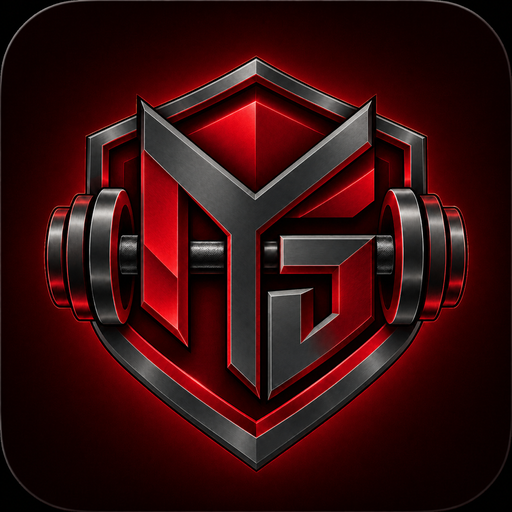
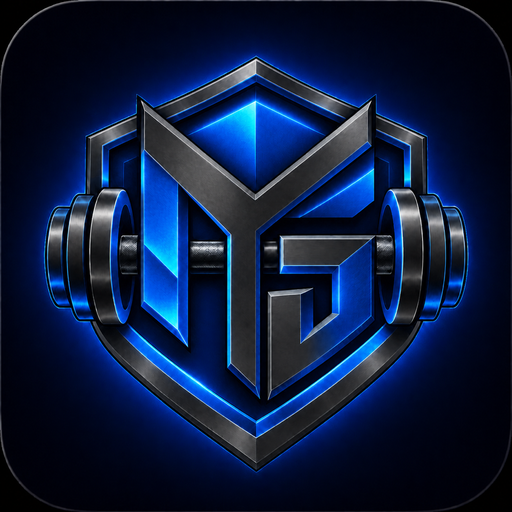
Rework theme identities: Midnight electric-blue flagship + new Crimson theme
- Midnight is now an electric-blue identity: new neon-electric badge, wordmark
  and app icon (assets/brand/*-electric.png, assets/icon.png) and electric-blue
  UI accents (:root recoloured).
- New Crimson theme (dark red) reuses the crimson badge/wordmark.
- Each theme's UI accent now matches its colourway: Daylight blue, Blossom
  violet, Grape gold (was mismatched red/pink before).
- Introduced --on-accent token so accent-button text reads on any hue
  (replaces hardcoded #2a0710). Theme picker shows all five with matching
  swatches; THEME_META/COLORWAY, splash-accent and head-script map updated.

diff --git a/index.html b/index.html
@@ -9,7 +9,7 @@
   try{
     var t=localStorage.getItem("mt_theme")||"midnight";
     if(t && t!=="midnight") document.documentElement.setAttribute("data-theme",t);
-    var mc={midnight:"#000000",blossom:"#FFF1F6",daylight:"#F4F5F8",grape:"#140B1F"}[t];
+    var mc={midnight:"#000000",blossom:"#FFF1F6",daylight:"#F4F5F8",grape:"#140B1F",crimson:"#0E0406"}[t];
     if(mc){ var m=document.querySelector('meta[name=theme-color]'); if(m) m.setAttribute("content",mc); }
   }catch(e){}
 })();
@@ -29,14 +29,15 @@
   :root{
     --bg:#000000;
     --summary-bg:#000000;
-    --splash-accent:#FF3B3B;
-    --surface:#13151D;
-    --surface-2:#1B1E28;
-    --border:#252A38;
-    --text:#EEF0F6;
-    --muted:#7E8598;
-    --faint:#4E5464;
-    --protein:#FF4D6D;   /* the red (app accent) */
+    --splash-accent:#22C8FF;
+    --on-accent:#04101d;   /* text on bright accent buttons */
+    --surface:#0F131C;
+    --surface-2:#171C28;
+    --border:#222A3A;
+    --text:#EAF2FB;
+    --muted:#7E8BA3;
+    --faint:#4A5568;
+    --protein:#0A84FF;   /* app accent - electric blue on Midnight */
     --protein-dial:#A855F7;  /* protein macro dial + dot (purple) */
     --fat-dial:#10B981;      /* fat macro dial + dot (emerald) */
     --carbs:#FFB43D;
@@ -50,8 +51,8 @@
     --gold:#FFC24B;
     --h-morning:#FFB43D;
     --h-wind:#9B7DFF;
-    --grad:linear-gradient(118deg,#FF4D6D 0%,#FF4D6D 100%);
-    --glow:0 0 16px rgba(255,77,109,.4);
+    --grad:linear-gradient(118deg,#22C8FF 0%,#0A84FF 100%);
+    --glow:0 0 16px rgba(10,132,255,.45);
     --ff-ui:'Plus Jakarta Sans',system-ui,-apple-system,sans-serif;
     --head-inset-top:calc(4px + env(safe-area-inset-top));
     --head-bar-h:38px;
@@ -61,27 +62,35 @@
   }
   /* ---------- theme skins (Midnight is the default :root above) ---------- */
   html[data-theme="blossom"]{
-    --bg:#FFF1F6; --summary-bg:#FFF1F6; --splash-accent:#A24BFF; --surface:#FFFFFF; --surface-2:#FDE6F0; --border:#F6D3E1;
-    --text:#3B2A33; --muted:#9C7C89; --faint:#CBA8B7;
-    --protein:#F53D7D; --grad:linear-gradient(118deg,#FF7FB0 0%,#F53D7D 100%); --glow:0 0 16px rgba(245,61,125,.30);
+    --bg:#FFF1F6; --summary-bg:#FFF1F6; --splash-accent:#8B5CF6; --on-accent:#150826; --surface:#FFFFFF; --surface-2:#F3E9FE; --border:#E9D9F7;
+    --text:#31243B; --muted:#8C7C9C; --faint:#BEACD0;
+    --protein:#8B5CF6; --grad:linear-gradient(118deg,#A78BFA 0%,#8B5CF6 100%); --glow:0 0 16px rgba(139,92,246,.30);
     --protein-dial:#A855F7; --fat-dial:#0EA371; --carbs:#EB9612;
-    --supp:#8B6DF0; --water:#1FB6D4; --brand:#7C6CF5; --danger:#E11D5B; --ok:#16A34A; --gold:#E0A93B;
-    --h-morning:#EB9612; --h-wind:#8B6DF0;
+    --supp:#8B5CF6; --water:#1FB6D4; --brand:#8B5CF6; --danger:#E11D5B; --ok:#16A34A; --gold:#E0A93B;
+    --h-morning:#EB9612; --h-wind:#8B5CF6;
   }
   html[data-theme="daylight"]{
-    --bg:#F4F5F8; --summary-bg:#F4F5F8; --splash-accent:#2E7DFF; --surface:#FFFFFF; --surface-2:#EBEEF3; --border:#DCE0EA;
+    --bg:#F4F5F8; --summary-bg:#F4F5F8; --splash-accent:#0A84FF; --on-accent:#04101d; --surface:#FFFFFF; --surface-2:#EBEEF3; --border:#DCE0EA;
     --text:#1B1E28; --muted:#6B7280; --faint:#A6ADBC;
-    --protein:#FF4D6D; --grad:linear-gradient(118deg,#FF4D6D 0%,#FF4D6D 100%); --glow:0 0 16px rgba(255,77,109,.25);
+    --protein:#0A84FF; --grad:linear-gradient(118deg,#3AA0FF 0%,#0A84FF 100%); --glow:0 0 16px rgba(10,132,255,.25);
     --protein-dial:#9333EA; --fat-dial:#0EA371; --carbs:#E8930C;
     --supp:#6366F1; --water:#0DA4C4; --brand:#0A84FF; --danger:#E11D48; --ok:#15A34A; --gold:#D99A2B;
     --h-morning:#E8930C; --h-wind:#7C5CF0;
   }
   html[data-theme="grape"]{
-    --bg:#140B1F; --summary-bg:#1B0F2B; --splash-accent:#FFB43D; --surface:#1F1330; --surface-2:#2A1B41; --border:#3B2858;
+    --bg:#140B1F; --summary-bg:#1B0F2B; --splash-accent:#FFC24B; --on-accent:#241703; --surface:#1F1330; --surface-2:#2A1B41; --border:#3B2858;
     --text:#F1EAF8; --muted:#A78FC2; --faint:#6C5589;
-    --protein:#FF5FA2; --grad:linear-gradient(118deg,#C46BFF 0%,#FF5FA2 100%); --glow:0 0 16px rgba(255,95,162,.40);
+    --protein:#FFC24B; --grad:linear-gradient(118deg,#FFD877 0%,#F5A623 100%); --glow:0 0 16px rgba(245,166,35,.38);
     --protein-dial:#C084FC; --fat-dial:#10B981; --carbs:#FFB43D;
     --supp:#A78BFA; --water:#34D3EE; --brand:#A78BFA; --danger:#FF5470; --ok:#3DE08A; --gold:#FFC24B;
+    --h-morning:#FFB43D; --h-wind:#C084FC;
+  }
+  html[data-theme="crimson"]{
+    --bg:#0E0406; --summary-bg:#0E0406; --splash-accent:#FF3B5C; --on-accent:#2a0710; --surface:#1C0A0E; --surface-2:#28111A; --border:#3E1B25;
+    --text:#FBEAED; --muted:#BE8C96; --faint:#7C4E58;
+    --protein:#FF3B5C; --grad:linear-gradient(118deg,#FF6B7F 0%,#E11D48 100%); --glow:0 0 16px rgba(225,29,72,.42);
+    --protein-dial:#C084FC; --fat-dial:#10B981; --carbs:#FFB43D;
+    --supp:#A78BFA; --water:#34D3EE; --brand:#3B82F6; --danger:#FF5470; --ok:#3DE08A; --gold:#FFC24B;
     --h-morning:#FFB43D; --h-wind:#C084FC;
   }
   *{box-sizing:border-box;margin:0;padding:0;-webkit-tap-highlight-color:transparent}
@@ -346,7 +355,7 @@
   .food .fi .nm{font-size:15px;font-weight:500}
   .food .fi .mm{font-family:var(--ff-num);font-size:11px;color:var(--muted);margin-top:2px;white-space:nowrap}
   .mm .p{color:var(--protein-dial)}.mm .c{color:var(--carbs)}.mm .f{color:var(--fat-dial)}
-  .food .plus{width:29px;height:29px;border-radius:9px;background:var(--grad);color:#2a0710;display:flex;align-items:center;justify-content:center;flex:none;box-shadow:var(--glow);line-height:0}
+  .food .plus{width:29px;height:29px;border-radius:9px;background:var(--grad);color:var(--on-accent);display:flex;align-items:center;justify-content:center;flex:none;box-shadow:var(--glow);line-height:0}
   .food .plus svg{width:13px;height:13px;stroke:currentColor;stroke-width:2;stroke-linecap:round;fill:none;display:block}
   .food .mgbtns{display:flex;gap:6px}
   .food .mg{width:32px;height:32px;border-radius:9px;border:1px solid var(--border);background:var(--surface-2);color:var(--muted);display:grid;place-items:center;cursor:pointer;font-size:14px}
@@ -396,7 +405,7 @@
   .grid4 input{font-family:var(--ff-num);padding:11px 8px;text-align:center}
   input[type=number]{-moz-appearance:textfield;appearance:textfield}
   input[type=number]::-webkit-outer-spin-button,input[type=number]::-webkit-inner-spin-button{-webkit-appearance:none;appearance:none;margin:0}
-  .primary{width:100%;background:var(--grad);color:#2a0710;border:none;border-radius:12px;padding:14px;font-family:var(--ff-ui);font-weight:700;font-size:14px;cursor:pointer;margin-top:4px;letter-spacing:.04em;text-transform:uppercase;box-shadow:var(--glow)}
+  .primary{width:100%;background:var(--grad);color:var(--on-accent);border:none;border-radius:12px;padding:14px;font-family:var(--ff-ui);font-weight:700;font-size:14px;cursor:pointer;margin-top:4px;letter-spacing:.04em;text-transform:uppercase;box-shadow:var(--glow)}
   .primary:active{opacity:.85}
   .ghost{width:100%;background:var(--surface-2);color:var(--text);border:1px solid var(--border);border-radius:12px;padding:12px;font-family:var(--ff-ui);font-weight:600;font-size:13px;cursor:pointer;margin-top:8px;letter-spacing:.03em;transition:color .2s,border-color .2s,background .2s}
   .ghost.saved{color:var(--ok);border-color:color-mix(in srgb,var(--ok) 55%,var(--border));background:color-mix(in srgb,var(--ok) 12%,var(--surface-2))}
@@ -420,7 +429,7 @@
   .nf-unit{flex:0 0 auto;display:flex;background:var(--surface-2);border:1px solid var(--border);border-radius:12px;padding:3px;gap:2px}
   .nf-unit button{border:none;background:transparent;color:var(--muted);font-family:var(--ff-ui);font-size:12px;font-weight:600;
     padding:0 12px;border-radius:9px;cursor:pointer;letter-spacing:.02em}
-  .nf-unit button.on{background:var(--protein);color:#2a0710}
+  .nf-unit button.on{background:var(--protein);color:var(--on-accent)}
   .nf-unit button:disabled{opacity:.4;cursor:not-allowed}
   .nf-amount-hint{font-family:var(--ff-num);font-size:11px;color:var(--muted);margin:6px 2px 0;min-height:14px}
   .nf-manual .field > label,.nf-manual .nf-name-grid > label{display:block;font-size:11px;letter-spacing:.08em;text-transform:uppercase;color:var(--muted);font-weight:600;line-height:1.2}
@@ -470,10 +479,11 @@
   .theme-sw i.a{width:16px;height:5px;left:7px;bottom:13px}
   .theme-sw i.b{width:10px;height:5px;left:7px;bottom:6px}
   .theme-name{font-size:12.5px;font-weight:600}
-  .sw-midnight{background:#000}       .sw-midnight i.a{background:#FF4D6D}  .sw-midnight i.b{background:#0A84FF}
-  .sw-blossom{background:#FFF1F6}      .sw-blossom i.a{background:#F53D7D}   .sw-blossom i.b{background:#7C6CF5}
-  .sw-daylight{background:#F4F5F8}     .sw-daylight i.a{background:#FF4D6D}  .sw-daylight i.b{background:#0A84FF}
-  .sw-grape{background:#140B1F}        .sw-grape i.a{background:#FF5FA2}     .sw-grape i.b{background:#A78BFA}
+  .sw-midnight{background:#000}       .sw-midnight i.a{background:#22C8FF}  .sw-midnight i.b{background:#0A84FF}
+  .sw-crimson{background:#0E0406}     .sw-crimson i.a{background:#FF3B5C}   .sw-crimson i.b{background:#3B82F6}
+  .sw-blossom{background:#FFF1F6}      .sw-blossom i.a{background:#8B5CF6}   .sw-blossom i.b{background:#C4A8FF}
+  .sw-daylight{background:#F4F5F8}     .sw-daylight i.a{background:#0A84FF}  .sw-daylight i.b{background:#3AA0FF}
+  .sw-grape{background:#140B1F}        .sw-grape i.a{background:#FFC24B}     .sw-grape i.b{background:#A78BFA}
 
   /* tabs */
   .tab-panel{display:none}
@@ -672,7 +682,7 @@
   .ob-foot{flex:none;display:flex;align-items:center;gap:12px;padding-top:16px}
   .ob-skip{flex:0 0 auto;background:transparent;border:none;color:var(--muted);font-family:var(--ff-ui);font-weight:600;font-size:14px;padding:14px 8px;cursor:pointer}
   .ob-skip:active{color:var(--text)}
-  .ob-next{flex:1;background:var(--grad);color:#2a0710;border:none;border-radius:13px;padding:15px;font-family:var(--ff-ui);font-weight:800;font-size:15px;letter-spacing:.02em;cursor:pointer;box-shadow:var(--glow)}
+  .ob-next{flex:1;background:var(--grad);color:var(--on-accent);border:none;border-radius:13px;padding:15px;font-family:var(--ff-ui);font-weight:800;font-size:15px;letter-spacing:.02em;cursor:pointer;box-shadow:var(--glow)}
   .ob-next:active{transform:scale(.99)}
 
   /* schedule / plan */
@@ -876,7 +886,7 @@
   #exList .exopt-fav.on{color:var(--gold)}
   #exList .exopt-fav.on svg{fill:var(--gold)}
   #exList .exopt-input{flex:1;min-width:0;background:var(--surface);border:1px solid var(--protein);color:var(--text);border-radius:8px;padding:7px 9px;font-family:var(--ff-ui);font-size:14px;outline:none}
-  #exList .exopt-save{flex:none;width:32px;height:32px;display:grid;place-items:center;background:var(--protein);border:none;color:#2a0710;cursor:pointer;border-radius:8px;font-size:15px;padding:0}
+  #exList .exopt-save{flex:none;width:32px;height:32px;display:grid;place-items:center;background:var(--protein);border:none;color:var(--on-accent);cursor:pointer;border-radius:8px;font-size:15px;padding:0}
 
   /* workout plans (templates) */
   #tab-lift .wk-plan-quick{display:flex;flex-wrap:wrap;gap:7px;justify-content:center;margin:2px 0 12px}
@@ -891,7 +901,7 @@
   #plansList .plan-item .pi-main{flex:1;min-width:0;cursor:pointer}
   #plansList .plan-item .pi-name{font-weight:700;font-size:14px;letter-spacing:-.01em;white-space:nowrap;overflow:hidden;text-overflow:ellipsis}
   #plansList .plan-item .pi-meta{font-family:var(--ff-num);font-size:11px;color:var(--muted);margin-top:2px;white-space:nowrap;overflow:hidden;text-overflow:ellipsis}
-  #plansList .plan-item .pi-start{flex:none;background:var(--grad);color:#2a0710;border:none;border-radius:10px;padding:9px 15px;font-family:var(--ff-ui);font-weight:700;font-size:12px;letter-spacing:.03em;text-transform:uppercase;cursor:pointer;box-shadow:var(--glow)}
+  #plansList .plan-item .pi-start{flex:none;background:var(--grad);color:var(--on-accent);border:none;border-radius:10px;padding:9px 15px;font-family:var(--ff-ui);font-weight:700;font-size:12px;letter-spacing:.03em;text-transform:uppercase;cursor:pointer;box-shadow:var(--glow)}
   #plansList .plan-item .pi-start:active{filter:brightness(.94)}
   #plansList .plan-empty{text-align:center;color:var(--faint);font-size:12.5px;padding:14px 0;line-height:1.6}
   #plansNew{width:100%;background:transparent;border:1px dashed var(--border);color:var(--protein);border-radius:12px;padding:13px;font-family:var(--ff-ui);font-weight:700;font-size:13px;cursor:pointer;margin-top:10px;letter-spacing:.02em}
@@ -1113,7 +1123,7 @@
   #tab-coach .coach-today b{color:var(--text);font-weight:600}
   #tab-coach .coach-journal{width:100%;background:var(--surface-2);border:1px solid var(--border);border-radius:11px;color:var(--text);font-family:var(--ff-ui);font-size:13px;padding:11px;outline:none;margin-top:10px;box-sizing:border-box}
   #tab-coach .coach-journal::placeholder{color:var(--faint)}
-  #tab-coach .coach-apply{width:100%;background:var(--protein);color:#2a0710;border:none;border-radius:12px;padding:13px;font-family:var(--ff-ui);font-weight:700;font-size:13.5px;cursor:pointer;letter-spacing:.03em;margin-bottom:10px;box-shadow:var(--glow)}
+  #tab-coach .coach-apply{width:100%;background:var(--protein);color:var(--on-accent);border:none;border-radius:12px;padding:13px;font-family:var(--ff-ui);font-weight:700;font-size:13.5px;cursor:pointer;letter-spacing:.03em;margin-bottom:10px;box-shadow:var(--glow)}
 
   /* tab alert dots */
   .tabbtn .ndot{position:absolute;top:5px;left:calc(50% + 8px);width:7px;height:7px;border-radius:50%;background:var(--protein);box-shadow:0 0 6px var(--protein)}
@@ -1142,7 +1152,7 @@
   /* coach follow-up */
   #tab-coach .coach-ask{display:flex;gap:8px;margin-top:12px}
   #tab-coach .coach-ask input{flex:1;min-width:0;background:var(--surface-2);border:1px solid var(--border);color:var(--text);border-radius:11px;padding:12px;font-family:var(--ff-ui);font-size:14px;outline:none}
-  #tab-coach .coach-ask button{flex:none;background:var(--protein);color:#2a0710;border:none;border-radius:11px;padding:0 16px;font-family:var(--ff-ui);font-weight:700;font-size:13px;cursor:pointer}
+  #tab-coach .coach-ask button{flex:none;background:var(--protein);color:var(--on-accent);border:none;border-radius:11px;padding:0 16px;font-family:var(--ff-ui);font-weight:700;font-size:13px;cursor:pointer}
   #tab-coach .coach-cont-h{font-size:9.5px;letter-spacing:.13em;text-transform:uppercase;color:var(--muted);font-weight:700;margin:16px 2px 0;padding-top:14px;border-top:1px solid var(--border)}
   #tab-coach .coach-sep{height:1px;background:var(--border);margin:20px 0 16px}
   #tab-coach .coach-regen{margin-top:0}
@@ -1178,7 +1188,7 @@
   #tab-coach .coach-actions .coach-card-t{color:var(--protein)}
   #tab-coach .coach-actions ol{list-style:none;counter-reset:step;display:flex;flex-direction:column;gap:9px}
   #tab-coach .coach-actions li{counter-increment:step;position:relative;padding-left:26px;font-size:13px;line-height:1.45;color:var(--text)}
-  #tab-coach .coach-actions li::before{content:counter(step);position:absolute;left:0;top:0;width:18px;height:18px;border-radius:50%;background:var(--protein);color:#2a0710;font-family:var(--ff-num);font-size:10px;font-weight:700;display:grid;place-items:center}
+  #tab-coach .coach-actions li::before{content:counter(step);position:absolute;left:0;top:0;width:18px;height:18px;border-radius:50%;background:var(--protein);color:var(--on-accent);font-family:var(--ff-num);font-size:10px;font-weight:700;display:grid;place-items:center}
   #tab-coach .coach-disclaimer{text-align:center;color:var(--faint);font-size:10px;margin:4px 0 2px;line-height:1.5}
   #tab-coach .coach-regen{margin-top:2px}
 
@@ -1233,15 +1243,15 @@
   </symbol>
 </svg>
 
-<div class="loading" id="loading"><div class="splash-inner"><img class="splash-logo" src="assets/brand/badge-crimson.png" alt="MásGains"><img class="splash-wordmark" src="assets/brand/wordmark-crimson.png" alt="MásGains"></div></div>
+<div class="loading" id="loading"><div class="splash-inner"><img class="splash-logo" src="assets/brand/badge-electric.png" alt="MásGains"><img class="splash-wordmark" src="assets/brand/wordmark-electric.png" alt="MásGains"></div></div>
 
 <div class="onboard" id="onboard" hidden>
   <div class="ob-top"><div class="ob-dots" id="obDots"></div></div>
   <div class="ob-body" id="obBody">
 
     <section class="ob-step" data-step="welcome">
-      <img class="ob-badge" src="assets/brand/badge-crimson.png" alt="">
-      <img class="ob-wordmark" src="assets/brand/wordmark-crimson.png" alt="MásGains">
+      <img class="ob-badge" src="assets/brand/badge-electric.png" alt="">
+      <img class="ob-wordmark" src="assets/brand/wordmark-electric.png" alt="MásGains">
       <p class="ob-lede">More gains, less guesswork. Let's set you up in under a minute. You can skip any step and change it later in Settings.</p>
     </section>
 
@@ -1309,7 +1319,7 @@
     </section>
 
     <section class="ob-step" data-step="done" hidden>
-      <img class="ob-badge" src="assets/brand/badge-crimson.png" alt="">
+      <img class="ob-badge" src="assets/brand/badge-electric.png" alt="">
       <h2 class="ob-h" style="margin-top:18px">You're all set</h2>
       <p class="ob-lede">Everything's ready. You can revisit any of this from Settings whenever you like. Time to make some gains.</p>
     </section>
@@ -1325,7 +1335,7 @@
   <div id="tab-home" class="tab-panel active">
     <div class="home-brand">
       <span class="brand-mark">
-      <img class="brand-logo" src="assets/brand/wordmark-crimson.png" alt="MásGains">
+      <img class="brand-logo" src="assets/brand/wordmark-electric.png" alt="MásGains">
 </span>
     </div>
     <div class="hero" data-goto="food">
@@ -1788,8 +1798,9 @@
       <div class="set-body" hidden>
         <div class="theme-grid" id="themeGrid">
           <button type="button" class="theme-opt" data-theme-pick="midnight"><span class="theme-sw sw-midnight"><i class="a"></i><i class="b"></i></span><span class="theme-name">Midnight</span></button>
-          <button type="button" class="theme-opt" data-theme-pick="blossom"><span class="theme-sw sw-blossom"><i class="a"></i><i class="b"></i></span><span class="theme-name">Blossom</span></button>
+          <button type="button" class="theme-opt" data-theme-pick="crimson"><span class="theme-sw sw-crimson"><i class="a"></i><i class="b"></i></span><span class="theme-name">Crimson</span></button>
           <button type="button" class="theme-opt" data-theme-pick="daylight"><span class="theme-sw sw-daylight"><i class="a"></i><i class="b"></i></span><span class="theme-name">Daylight</span></button>
+          <button type="button" class="theme-opt" data-theme-pick="blossom"><span class="theme-sw sw-blossom"><i class="a"></i><i class="b"></i></span><span class="theme-name">Blossom</span></button>
           <button type="button" class="theme-opt" data-theme-pick="grape"><span class="theme-sw sw-grape"><i class="a"></i><i class="b"></i></span><span class="theme-name">Grape</span></button>
         </div>
         <div class="mono-note" style="text-align:left;margin:10px 2px 0">Pick a skin for the whole app. Your choice is saved on this device.</div>
@@ -2159,7 +2170,7 @@
 
   /* ---------- theme ---------- */
   var THEME_KEY="mt_theme", theme="midnight";
-  var THEME_META={midnight:"#000000",blossom:"#FFF1F6",daylight:"#F4F5F8",grape:"#140B1F"};
+  var THEME_META={midnight:"#000000",blossom:"#FFF1F6",daylight:"#F4F5F8",grape:"#140B1F",crimson:"#0E0406"};
   function applyTheme(t){
     theme=THEME_META[t]?t:"midnight";
     if(theme==="midnight") document.documentElement.removeAttribute("data-theme");
@@ -2170,7 +2181,7 @@
     updateLogoSrc();
   }
   // each theme has a MásGains colourway: emblem badge (header/splash) + wordmark (home/splash)
-  var THEME_COLORWAY={midnight:"crimson",daylight:"blue",blossom:"violet",grape:"gold"};
+  var THEME_COLORWAY={midnight:"electric",daylight:"blue",blossom:"violet",grape:"gold",crimson:"crimson"};
   function badgeSrcFor(t){ return "assets/brand/badge-"+(THEME_COLORWAY[t]||"crimson")+".png"; }
   function wordmarkSrcFor(t){ return "assets/brand/wordmark-"+(THEME_COLORWAY[t]||"crimson")+".png"; }
   function updateLogoSrc(){
